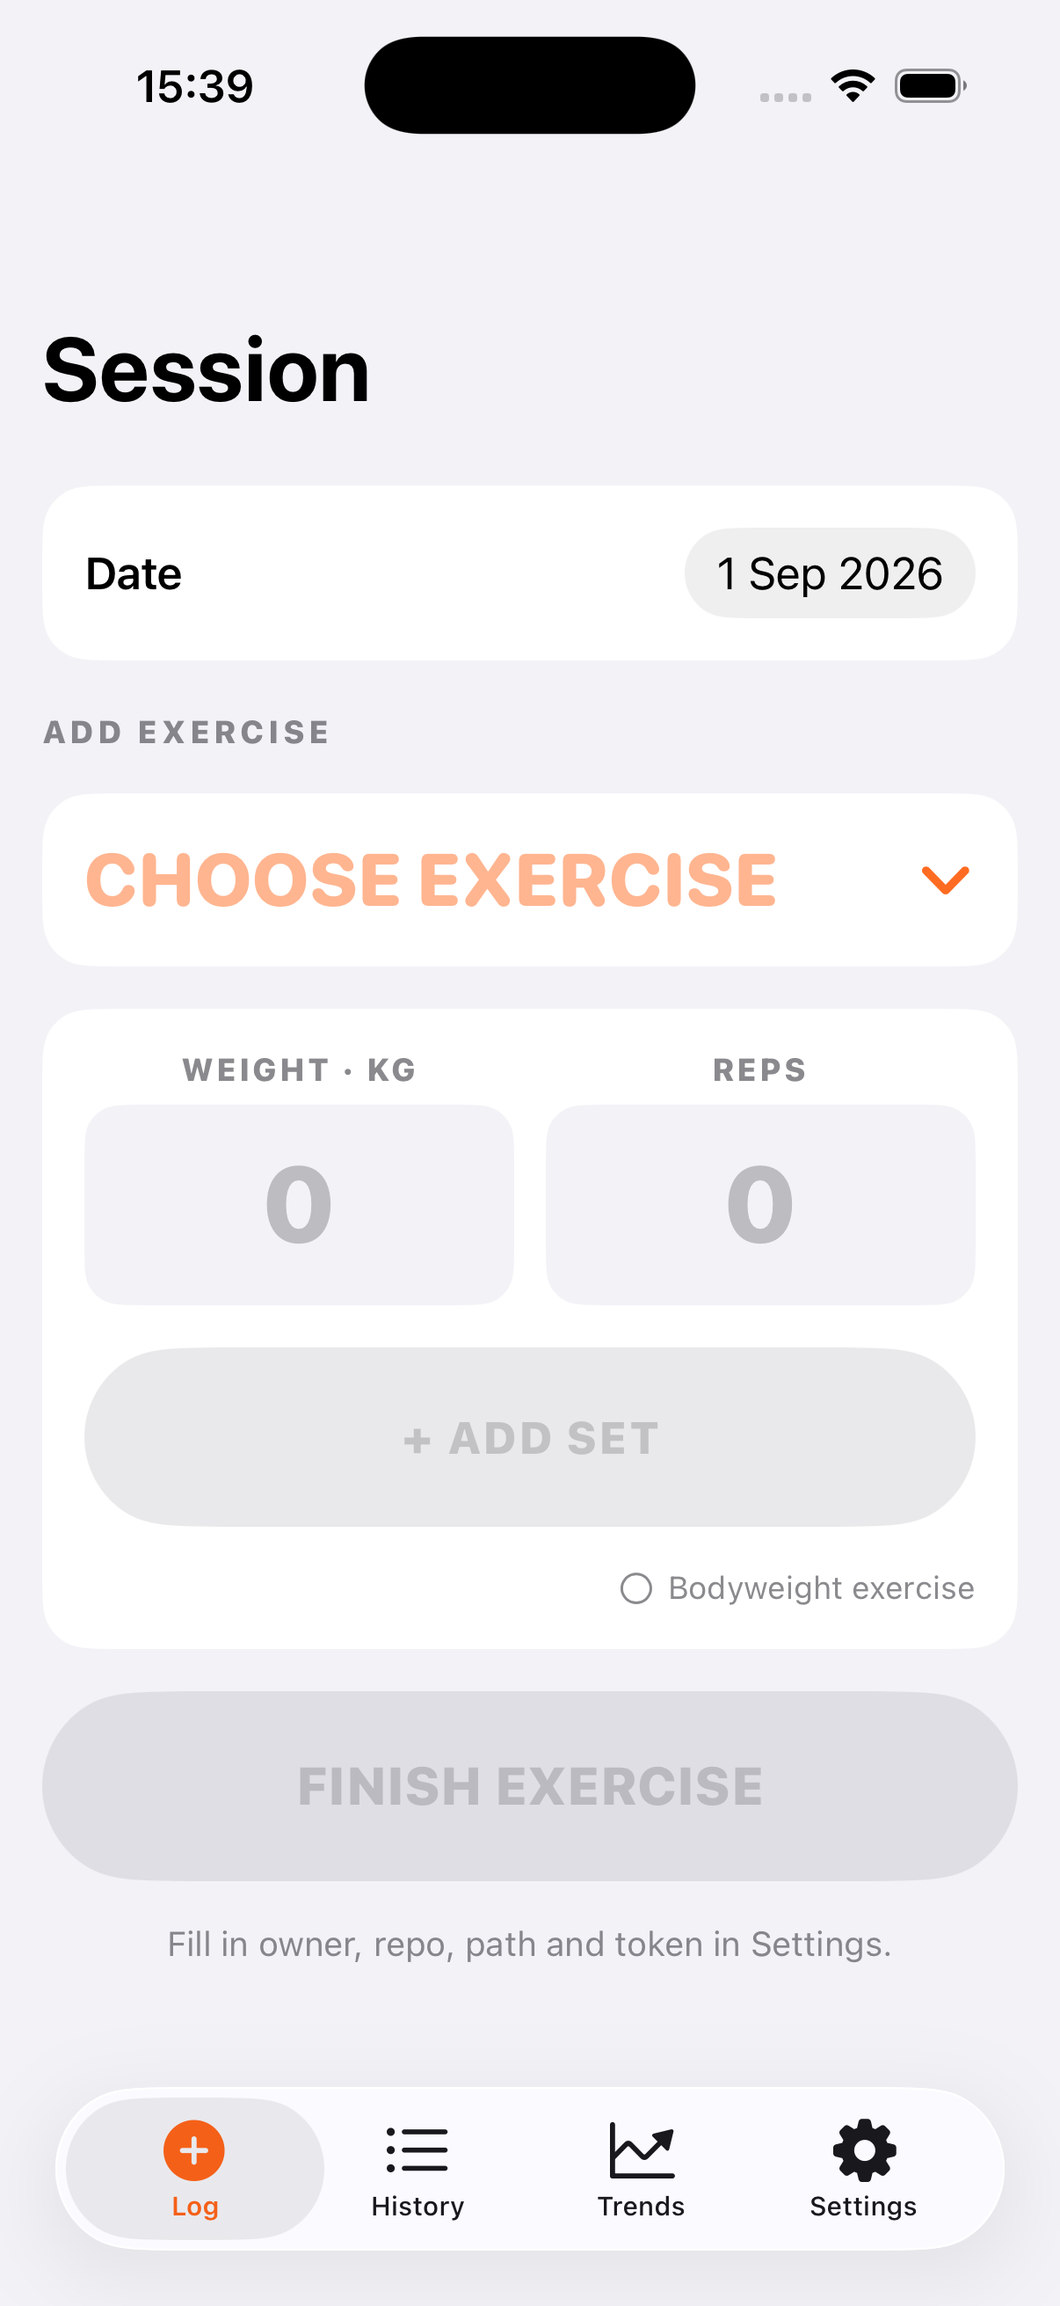
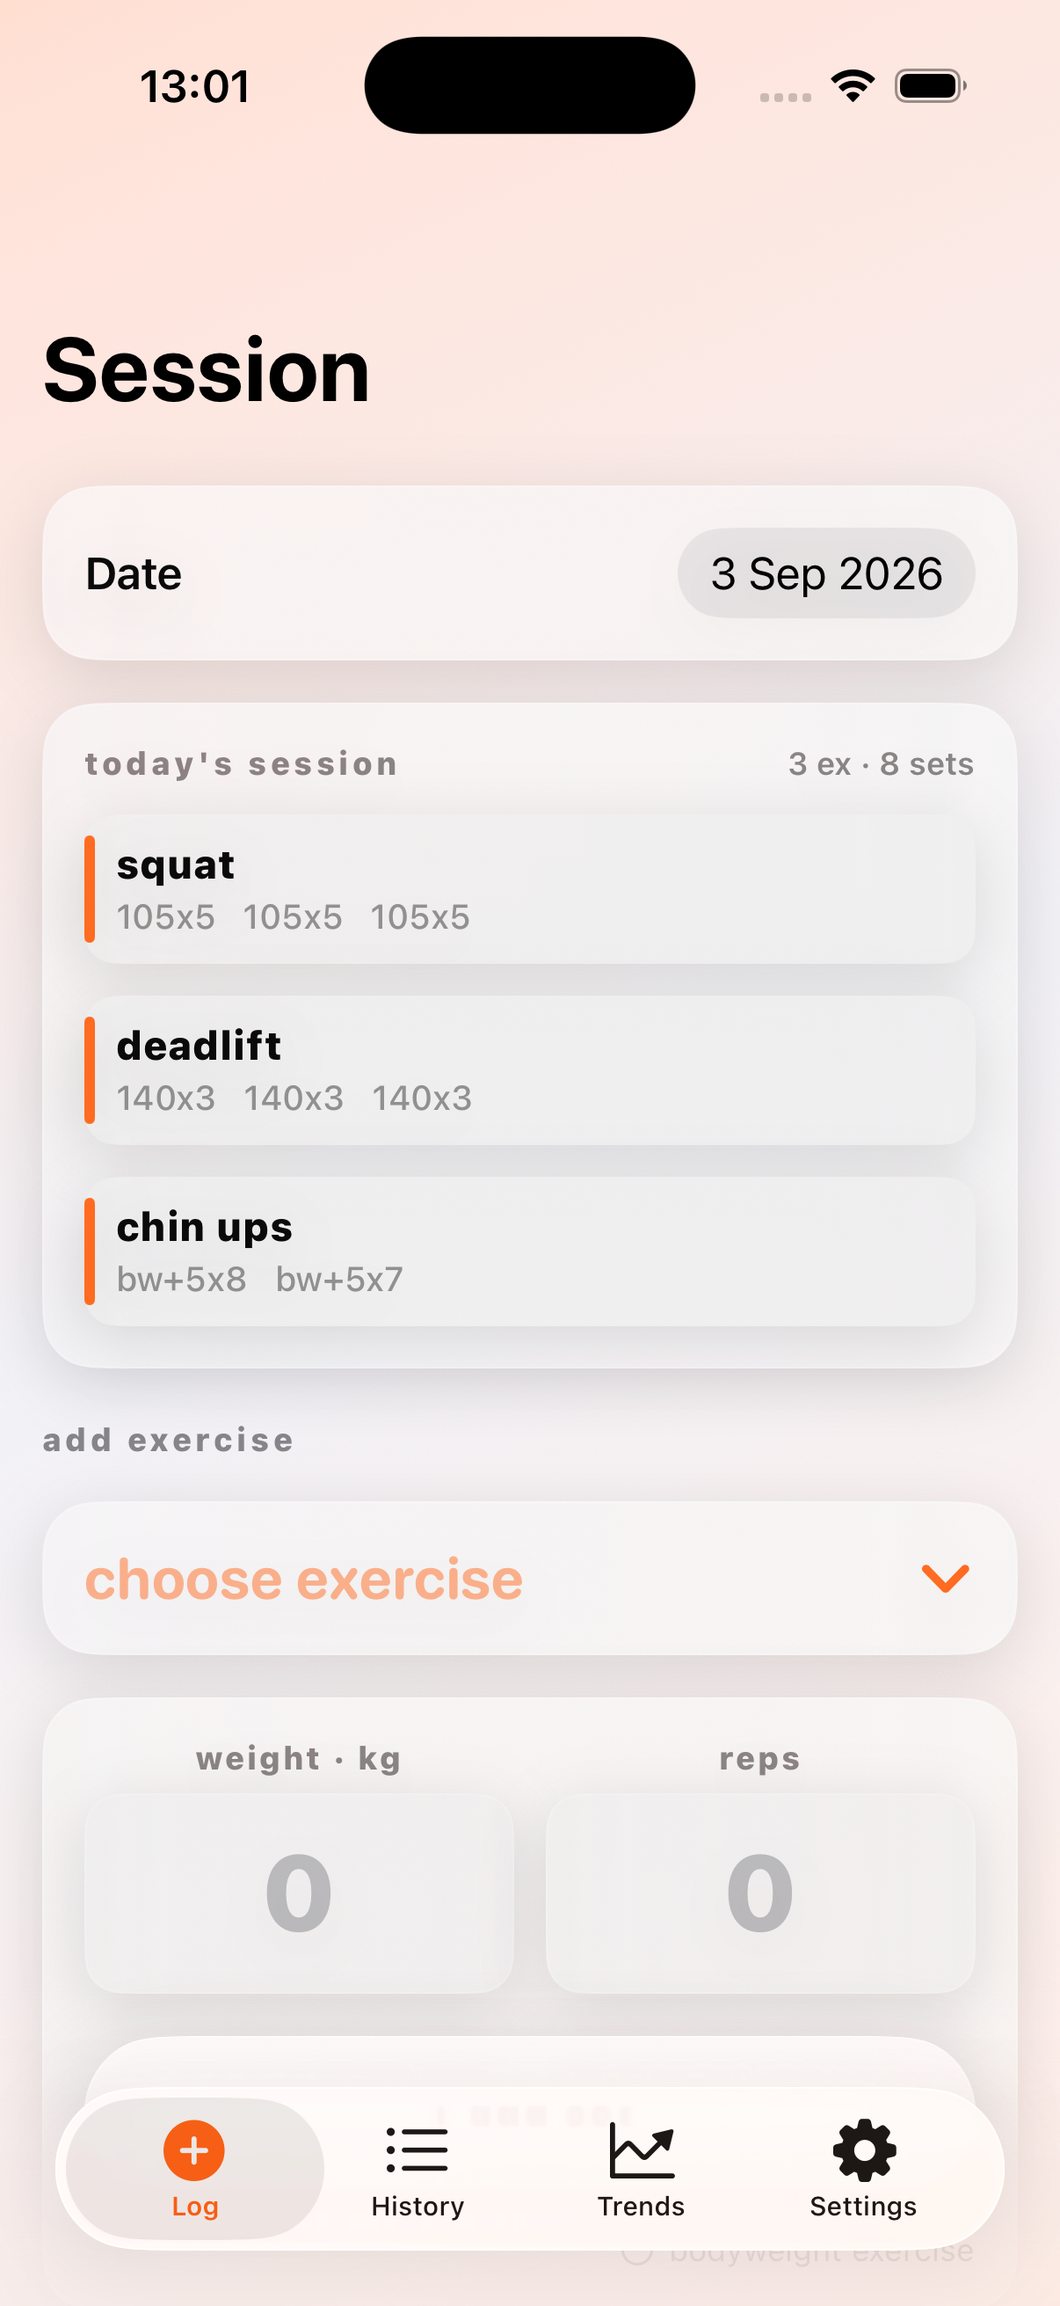
Glassy Liquid Glass redesign + lowercase labels; new screenshot
Reskin to a frosted-glass look, centralized in Theme:
- translucent material cards with hairline edges, soft shadows, continuous
  corners (one glassCard() helper for Log and Trends)
- warm accent-gradient backdrop so the glass refracts instead of sitting flat
- native iOS 26 Liquid Glass buttons (.glass for add-set, .glassProminent for
  finish), glassy input fields, rest-timer buttons, and History/Settings rows

Lowercase in-screen labels and buttons (add exercise, + add set, finish
exercise, today's session, weight/reps, choose exercise, Settings fields) while
keeping nav titles and the tab bar capitalized per iOS convention. Drop the now
unused Theme.displayName.

Regenerate docs/session.png from the new UI using seeded sample data.

diff --git a/LiftLog/Views/LogView.swift b/LiftLog/Views/LogView.swift
@@ -46,7 +46,7 @@ struct LogView: View {
                 VStack(spacing: 16) {
                     dateCard
                     if !todayExercises.isEmpty { todaySessionCard }
-                    sectionLabel("ADD EXERCISE")
+                    sectionLabel("add exercise")
                     exerciseCard
                     addSetCard
                     if restStart != nil { restTimerCard }
@@ -58,7 +58,7 @@ struct LogView: View {
                 }
                 .padding()
             }
-            .background(Color(.systemGroupedBackground))
+            .background(Theme.backgroundView)
             .navigationTitle("Session")
             .sheet(isPresented: $showingPicker) {
                 ExercisePickerView(history: store.knownExercises) { picked in
@@ -123,7 +123,7 @@ struct LogView: View {
         Card {
             VStack(alignment: .leading, spacing: 12) {
                 HStack {
-                    Text("TODAY'S SESSION")
+                    Text("today's session")
                         .font(.caption.weight(.heavy)).tracking(1.5)
                         .foregroundStyle(.secondary)
                     Spacer()
@@ -132,7 +132,7 @@ struct LogView: View {
                 }
                 ForEach(todayExercises) { ex in
                     VStack(alignment: .leading, spacing: 3) {
-                        Text(Theme.displayName(ex.name))
+                        Text(Theme.readableName(ex.name))
                             .font(.subheadline.weight(.heavy)).tracking(0.5)
                         Text(ex.sets.map(\.token).joined(separator: "   "))
                             .font(.footnote.weight(.medium)).foregroundStyle(.secondary)
@@ -140,7 +140,7 @@ struct LogView: View {
                     .frame(maxWidth: .infinity, alignment: .leading)
                     .padding(.vertical, 10)
                     .padding(.horizontal, 12)
-                    .background(Color(.systemGray6), in: RoundedRectangle(cornerRadius: 12))
+                    .background(.ultraThinMaterial, in: RoundedRectangle(cornerRadius: 12, style: .continuous))
                     .overlay(alignment: .leading) {
                         RoundedRectangle(cornerRadius: 2)
                             .fill(Theme.accent)
@@ -165,7 +165,7 @@ struct LogView: View {
                     showingPicker = true
                 } label: {
                     HStack(spacing: 10) {
-                        Text(name.isEmpty ? "CHOOSE EXERCISE" : Theme.readableName(name))
+                        Text(name.isEmpty ? "choose exercise" : Theme.readableName(name))
                             .font(.system(size: 22, weight: .bold, design: .rounded))
                             .foregroundStyle(name.isEmpty ? .secondary : .primary)
                             .lineLimit(1)
@@ -178,7 +178,7 @@ struct LogView: View {
                 }
                 if let last = lastEntry {
                     Label {
-                        Text("Last: " + last.sets.map(\.token).joined(separator: "  "))
+                        Text("last: " + last.sets.map(\.token).joined(separator: "  "))
                     } icon: {
                         Image(systemName: "clock.arrow.circlepath")
                     }
@@ -206,12 +206,12 @@ struct LogView: View {
                 }
 
                 Button { addSet() } label: {
-                    Text("+ ADD SET")
+                    Text("+ add set")
                         .font(.subheadline.weight(.heavy)).tracking(1)
                         .frame(maxWidth: .infinity)
                         .frame(height: 44)
                 }
-                .buttonStyle(.bordered)
+                .buttonStyle(.glass)
                 .tint(Theme.accent)
                 .disabled(!canAddSet)
 
@@ -222,7 +222,7 @@ struct LogView: View {
                 } label: {
                     HStack(spacing: 5) {
                         Image(systemName: isBodyweight ? "checkmark.circle.fill" : "circle")
-                        Text("Bodyweight exercise")
+                        Text("bodyweight exercise")
                     }
                     .font(.caption)
                     .foregroundStyle(isBodyweight ? Theme.accent : .secondary)
@@ -239,7 +239,7 @@ struct LogView: View {
         Card {
             HStack(spacing: 16) {
                 VStack(alignment: .leading, spacing: 2) {
-                    Text("REST")
+                    Text("rest")
                         .font(.caption.weight(.heavy)).tracking(1.5)
                         .foregroundStyle(.secondary)
                     TimelineView(.periodic(from: restStart ?? Date(), by: 1)) { context in
@@ -254,7 +254,7 @@ struct LogView: View {
                     Image(systemName: "arrow.counterclockwise")
                         .font(.title2.weight(.bold))
                         .frame(width: 52, height: 52)
-                        .background(Color(.systemGray6), in: Circle())
+                        .background(.ultraThinMaterial, in: Circle())
                 }
                 .buttonStyle(.plain)
                 Button { restStart = nil } label: {
@@ -262,7 +262,7 @@ struct LogView: View {
                         .font(.title3.weight(.bold))
                         .foregroundStyle(.secondary)
                         .frame(width: 52, height: 52)
-                        .background(Color(.systemGray6), in: Circle())
+                        .background(.ultraThinMaterial, in: Circle())
                 }
                 .buttonStyle(.plain)
             }
@@ -279,7 +279,7 @@ struct LogView: View {
     private var setsCard: some View {
         Card {
             VStack(alignment: .leading, spacing: 10) {
-                Text("CURRENT SETS")
+                Text("current sets")
                     .font(.caption.weight(.heavy)).tracking(1.5)
                     .foregroundStyle(.secondary)
                 ForEach(Array(sets.enumerated()), id: \.element.id) { idx, set in
@@ -309,7 +309,7 @@ struct LogView: View {
                         restStart = Date()
                     }
                 } label: {
-                    Label("Repeat last set", systemImage: "arrow.uturn.down")
+                    Label("repeat last set", systemImage: "arrow.uturn.down")
                         .font(.footnote.weight(.semibold))
                 }
                 .tint(Theme.accent)
@@ -331,14 +331,14 @@ struct LogView: View {
             .frame(maxWidth: .infinity)
             .frame(height: 48)
         }
-        .buttonStyle(.borderedProminent)
+        .buttonStyle(.glassProminent)
         .tint(Theme.accent)
         .disabled(!canFinish)
     }
 
     private var finishTitle: String {
         let alreadyLogged = todayExercises.contains { $0.name.caseInsensitiveCompare(name) == .orderedSame }
-        return alreadyLogged ? "UPDATE EXERCISE" : "FINISH EXERCISE"
+        return alreadyLogged ? "update exercise" : "finish exercise"
     }
 
     // MARK: - Helpers
@@ -346,7 +346,7 @@ struct LogView: View {
     private func bigField(title: String, text: Binding<String>,
                           keyboard: UIKeyboardType, focusValue: Field) -> some View {
         VStack(spacing: 6) {
-            Text(title.uppercased())
+            Text(title.lowercased())
                 .font(.caption.weight(.heavy)).tracking(1)
                 .foregroundStyle(.secondary)
             TextField("0", text: text)
@@ -356,11 +356,11 @@ struct LogView: View {
                 .font(.system(size: 40, weight: .heavy, design: .rounded))
                 .frame(maxWidth: .infinity)
                 .frame(height: Theme.bigFieldHeight)
-                .background(Color(.systemGray6), in: RoundedRectangle(cornerRadius: 14))
+                .background(.ultraThinMaterial, in: RoundedRectangle(cornerRadius: 14, style: .continuous))
                 .overlay(
-                    RoundedRectangle(cornerRadius: 14)
-                        .strokeBorder(focus == focusValue ? Theme.accent : Color.clear,
-                                      lineWidth: 2)
+                    RoundedRectangle(cornerRadius: 14, style: .continuous)
+                        .strokeBorder(focus == focusValue ? Theme.accent : .white.opacity(0.15),
+                                      lineWidth: focus == focusValue ? 2 : 0.8)
                 )
         }
         .frame(maxWidth: .infinity)
@@ -408,14 +408,8 @@ struct LogView: View {
     }
 }
 
-/// A rounded container used to group content into cards.
+/// A frosted-glass container used to group content into cards.
 private struct Card<Content: View>: View {
     @ViewBuilder var content: Content
-    var body: some View {
-        content
-            .padding(16)
-            .frame(maxWidth: .infinity, alignment: .leading)
-            .background(Color(.secondarySystemGroupedBackground),
-                        in: RoundedRectangle(cornerRadius: Theme.corner))
-    }
+    var body: some View { content.glassCard() }
 }

diff --git a/LiftLog/Views/SettingsView.swift b/LiftLog/Views/SettingsView.swift
@@ -8,11 +8,12 @@ struct SettingsView: View {
         NavigationStack {
             Form {
                 Section("Repository") {
-                    labeled("Owner", text: $store.owner, placeholder: "your-username")
-                    labeled("Repo", text: $store.repo, placeholder: "training")
-                    labeled("File path", text: $store.path, placeholder: "training.md")
-                    labeled("Branch", text: $store.branch, placeholder: "main")
+                    labeled("owner", text: $store.owner, placeholder: "your-username")
+                    labeled("repo", text: $store.repo, placeholder: "training")
+                    labeled("file path", text: $store.path, placeholder: "training.md")
+                    labeled("branch", text: $store.branch, placeholder: "main")
                 }
+                .listRowBackground(Rectangle().fill(.regularMaterial))
 
                 Section("Token") {
                     SecureField("ghp_… (fine-grained PAT)", text: $store.token)
@@ -23,12 +24,13 @@ struct SettingsView: View {
                         .font(.caption)
                         .foregroundStyle(.secondary)
                 }
+                .listRowBackground(Rectangle().fill(.regularMaterial))
 
                 if !store.pending.isEmpty {
                     Section("Waiting to sync") {
                         ForEach(store.pending) { write in
                             HStack {
-                                Text(Theme.displayName(write.exerciseName))
+                                Text(Theme.readableName(write.exerciseName))
                                     .font(.subheadline.weight(.semibold))
                                 Spacer()
                                 Text(Session.dateFormatter.string(from: write.date))
@@ -38,20 +40,24 @@ struct SettingsView: View {
                         Text("^[\(store.pending.count) change](inflect: true) saved offline. Reloading below pushes them.")
                             .font(.caption).foregroundStyle(.secondary)
                     }
+                    .listRowBackground(Rectangle().fill(.regularMaterial))
                 }
 
                 Section {
                     Button {
                         Task { await store.load() }
                     } label: {
-                        if store.isBusy { ProgressView() } else { Text("Test connection / reload") }
+                        if store.isBusy { ProgressView() } else { Text("test connection / reload") }
                     }
                     .disabled(store.isBusy)
                     if !store.status.isEmpty {
                         Text(store.status).font(.caption).foregroundStyle(.secondary)
                     }
                 }
+                .listRowBackground(Rectangle().fill(.regularMaterial))
             }
+            .scrollContentBackground(.hidden)
+            .background(Theme.backgroundView)
             .navigationTitle("Settings")
         }
     }

diff --git a/LiftLog/Views/TrendsView.swift b/LiftLog/Views/TrendsView.swift
@@ -40,7 +40,7 @@ struct TrendsView: View {
                     .padding()
                 }
             }
-            .background(Color(.systemGroupedBackground))
+            .background(Theme.backgroundView)
             .navigationTitle("Trends")
             .refreshable { await store.load() }
             .onAppear(perform: ensureSelection)
@@ -57,7 +57,7 @@ struct TrendsView: View {
             }
         } label: {
             HStack {
-                Text(exercise.isEmpty ? "Choose exercise" : exercise)
+                Text(exercise.isEmpty ? "choose exercise" : Theme.readableName(exercise))
                     .font(.title3.weight(.semibold))
                 Image(systemName: "chevron.up.chevron.down").font(.footnote)
                 Spacer()
@@ -65,8 +65,11 @@ struct TrendsView: View {
             .foregroundStyle(.primary)
             .padding(16)
             .frame(maxWidth: .infinity, alignment: .leading)
-            .background(Color(.secondarySystemGroupedBackground),
-                        in: RoundedRectangle(cornerRadius: 16))
+            .background(.regularMaterial, in: RoundedRectangle(cornerRadius: Theme.corner, style: .continuous))
+            .overlay(
+                RoundedRectangle(cornerRadius: Theme.corner, style: .continuous)
+                    .strokeBorder(.white.opacity(0.18), lineWidth: 0.8)
+            )
         }
     }
 
@@ -82,7 +85,7 @@ struct TrendsView: View {
     private var chartCard: some View {
         CardBox {
             VStack(alignment: .leading, spacing: 8) {
-                Text(metric.rawValue.uppercased() + " OVER TIME")
+                Text(metric.rawValue.lowercased() + " over time")
                     .font(.caption).foregroundStyle(.secondary)
 
                 if series.count >= 2 {
@@ -126,7 +129,7 @@ struct TrendsView: View {
     private func statTile(title: String, subtitle: String, change: TrendChange?) -> some View {
         CardBox {
             VStack(alignment: .leading, spacing: 4) {
-                Text(title.uppercased()).font(.caption).foregroundStyle(.secondary)
+                Text(title.lowercased()).font(.caption).foregroundStyle(.secondary)
                 if let c = change {
                     HStack(spacing: 4) {
                         Image(systemName: c.isUp ? "arrow.up.right" : "arrow.down.right")
@@ -181,14 +184,8 @@ struct TrendsView: View {
     }
 }
 
-/// Reusable rounded card container.
+/// Reusable frosted-glass card container.
 private struct CardBox<Content: View>: View {
     @ViewBuilder var content: Content
-    var body: some View {
-        content
-            .padding(16)
-            .frame(maxWidth: .infinity, alignment: .leading)
-            .background(Color(.secondarySystemGroupedBackground),
-                        in: RoundedRectangle(cornerRadius: 16))
-    }
+    var body: some View { content.glassCard() }
 }

diff --git a/LiftLog/Theme.swift b/LiftLog/Theme.swift
@@ -6,18 +6,41 @@ enum Theme {
     /// Vivid orange — high-energy, reads well in light and dark.
     static let accent = Color(red: 1.0, green: 0.42, blue: 0.13)
 
-    static let corner: CGFloat = 18
+    static let corner: CGFloat = 20
     static let bigFieldHeight: CGFloat = 76
 
-    /// Turn a stored kebab-case name into a bold display label, e.g.
-    /// "over-head-press" -> "OVER HEAD PRESS".
-    static func displayName(_ raw: String) -> String {
-        raw.replacingOccurrences(of: "-", with: " ").uppercased()
+    /// Soft accent-tinted backdrop. Gives the frosted glass something to refract,
+    /// so the material cards actually read as glass rather than flat panels.
+    static var backgroundView: some View {
+        LinearGradient(
+            colors: [accent.opacity(0.22),
+                     Color(.systemGroupedBackground),
+                     accent.opacity(0.12)],
+            startPoint: .topLeading, endPoint: .bottomTrailing
+        )
+        .ignoresSafeArea()
     }
 
-    /// Like `displayName` but keeps the original casing — e.g.
-    /// "over-head-press" -> "over head press". Used where all-caps reads too shouty.
+    /// Turn a stored kebab-case name into a readable label, keeping its casing —
+    /// e.g. "over-head-press" -> "over head press".
     static func readableName(_ raw: String) -> String {
         raw.replacingOccurrences(of: "-", with: " ")
+    }
+}
+
+extension View {
+    /// Frosted-glass card: a translucent material panel with a hairline highlight
+    /// edge and a soft drop shadow. The one place the app's card look is defined.
+    func glassCard(cornerRadius: CGFloat = Theme.corner) -> some View {
+        self
+            .padding(16)
+            .frame(maxWidth: .infinity, alignment: .leading)
+            .background(.regularMaterial,
+                        in: RoundedRectangle(cornerRadius: cornerRadius, style: .continuous))
+            .overlay(
+                RoundedRectangle(cornerRadius: cornerRadius, style: .continuous)
+                    .strokeBorder(.white.opacity(0.18), lineWidth: 0.8)
+            )
+            .shadow(color: .black.opacity(0.12), radius: 12, x: 0, y: 6)
     }
 }

diff --git a/LiftLog/Views/HistoryView.swift b/LiftLog/Views/HistoryView.swift
@@ -29,6 +29,11 @@ struct HistoryView: View {
                                     .foregroundStyle(.secondary)
                             }
                             .contentShape(Rectangle())
+                            .listRowBackground(
+                                RoundedRectangle(cornerRadius: 12, style: .continuous)
+                                    .fill(.regularMaterial)
+                                    .padding(.vertical, 2)
+                            )
                             .onTapGesture {
                                 store.requestEdit(exercise: ex.name, on: session.date)
                             }
@@ -58,10 +63,12 @@ struct HistoryView: View {
                                            description: Text("Log a workout, or pull to refresh."))
                 }
             }
+            .scrollContentBackground(.hidden)
+            .background(Theme.backgroundView)
             .refreshable { await store.load() }
             .navigationTitle("History")
             .confirmationDialog(
-                pendingDelete.map { "Delete \(Theme.displayName($0.name)) on \(Session.dateFormatter.string(from: $0.date))?" } ?? "",
+                pendingDelete.map { "Delete \(Theme.readableName($0.name)) on \(Session.dateFormatter.string(from: $0.date))?" } ?? "",
                 isPresented: Binding(get: { pendingDelete != nil },
                                      set: { if !$0 { pendingDelete = nil } }),
                 titleVisibility: .visible,
